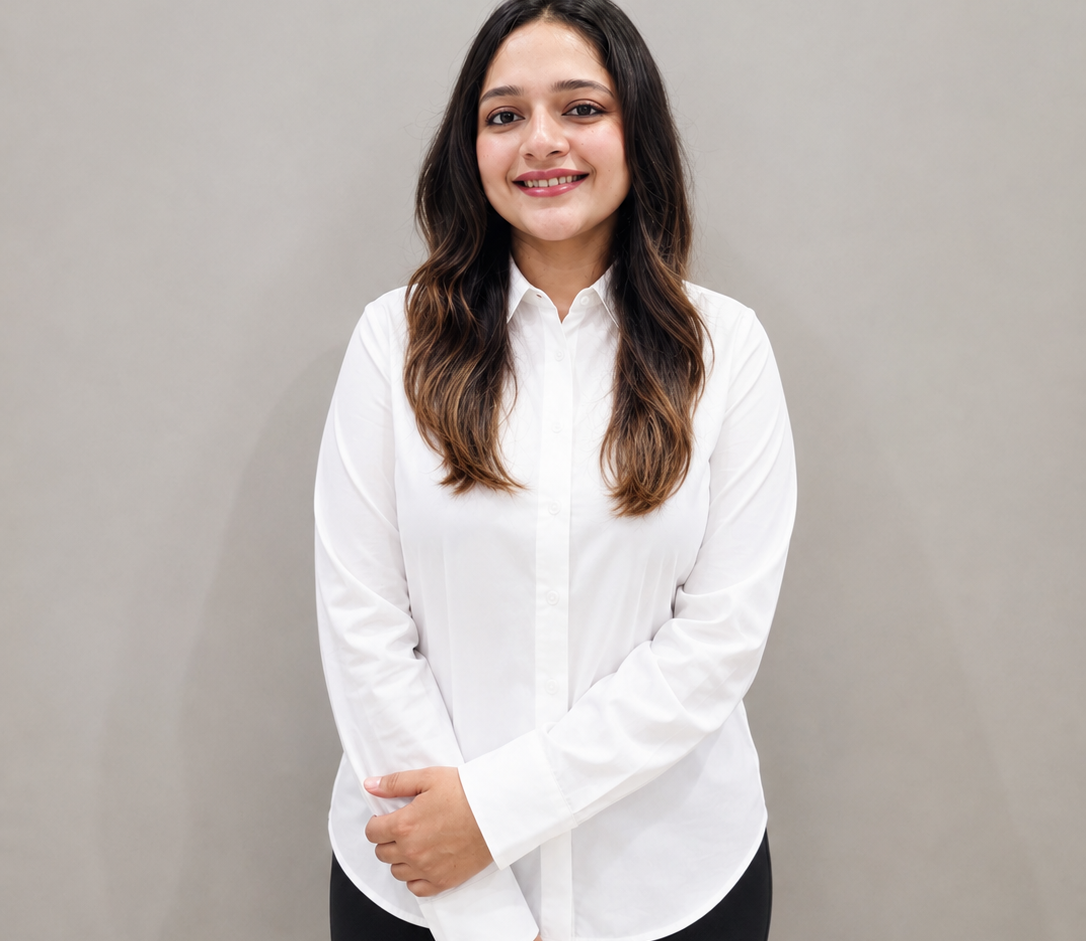
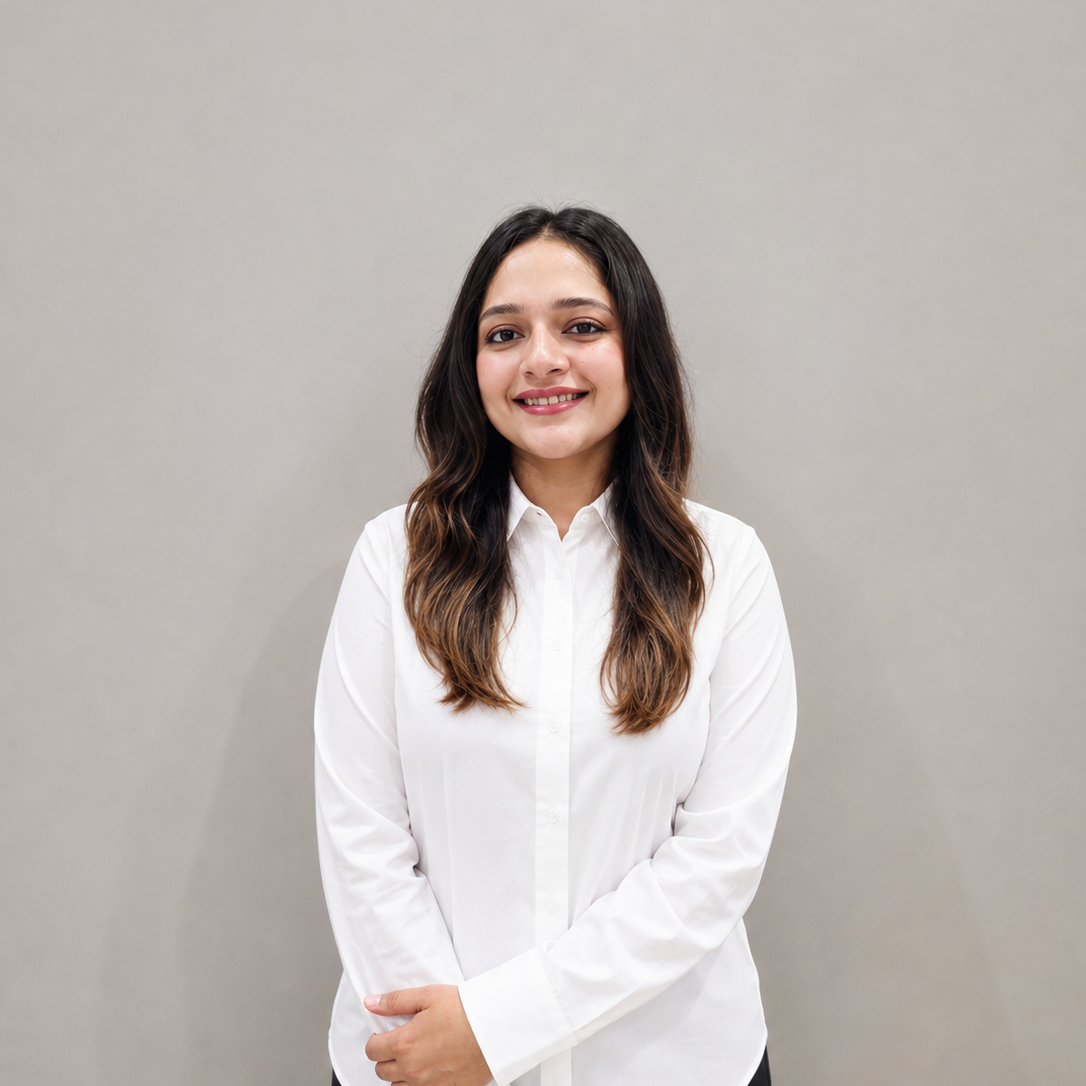
Adjust crop height and headroom for Inara, and expand card photo container height to h-80

Changed region(s): [[0.2735, 0.0, 0.7597, 1.0], [0.6077, 0.7088, 0.6381, 0.7705]]

diff --git a/index.html b/index.html
@@ -1036,7 +1036,7 @@
           
           <!-- Team Member 1: Dr. Inara Lakhani -->
           <div class="bg-white dark:bg-slate-950 rounded-3xl overflow-hidden shadow-xl border border-slate-100 dark:border-slate-800 flex flex-col justify-between hover-lift">
-            <div class="relative h-72">
+            <div class="relative h-80">
               <img src="./Images/dr_inara_lakhani.png" alt="Dr. Inara Lakhani - Physiotherapist" class="w-full h-full object-cover">
               <div class="absolute bottom-4 left-4 bg-teal-600/90 backdrop-blur text-white px-4 py-1.5 rounded-full text-xs font-bold shadow-md">
                 Physiotherapist
@@ -1078,7 +1078,7 @@
 
           <!-- Team Member 2: Patel Kashish Manojkumar -->
           <div class="bg-white dark:bg-slate-950 rounded-3xl overflow-hidden shadow-xl border border-slate-100 dark:border-slate-800 flex flex-col justify-between hover-lift">
-            <div class="relative h-72">
+            <div class="relative h-80">
               <img src="./Images/patel_kashish_manojkumar.jpg" alt="Patel Kashish Manojkumar - Physiotherapist" class="w-full h-full object-cover">
               <div class="absolute bottom-4 left-4 bg-teal-600/90 backdrop-blur text-white px-4 py-1.5 rounded-full text-xs font-bold shadow-md">
                 Physiotherapist
